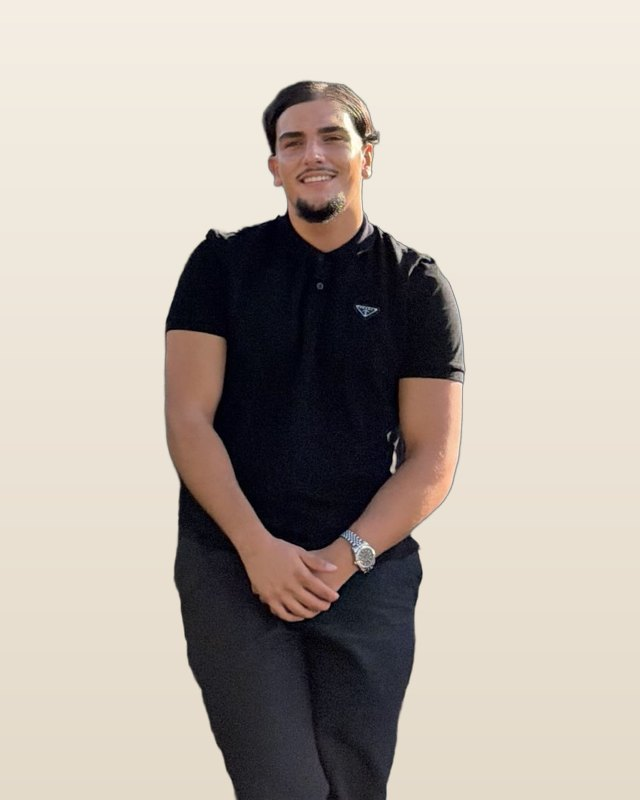
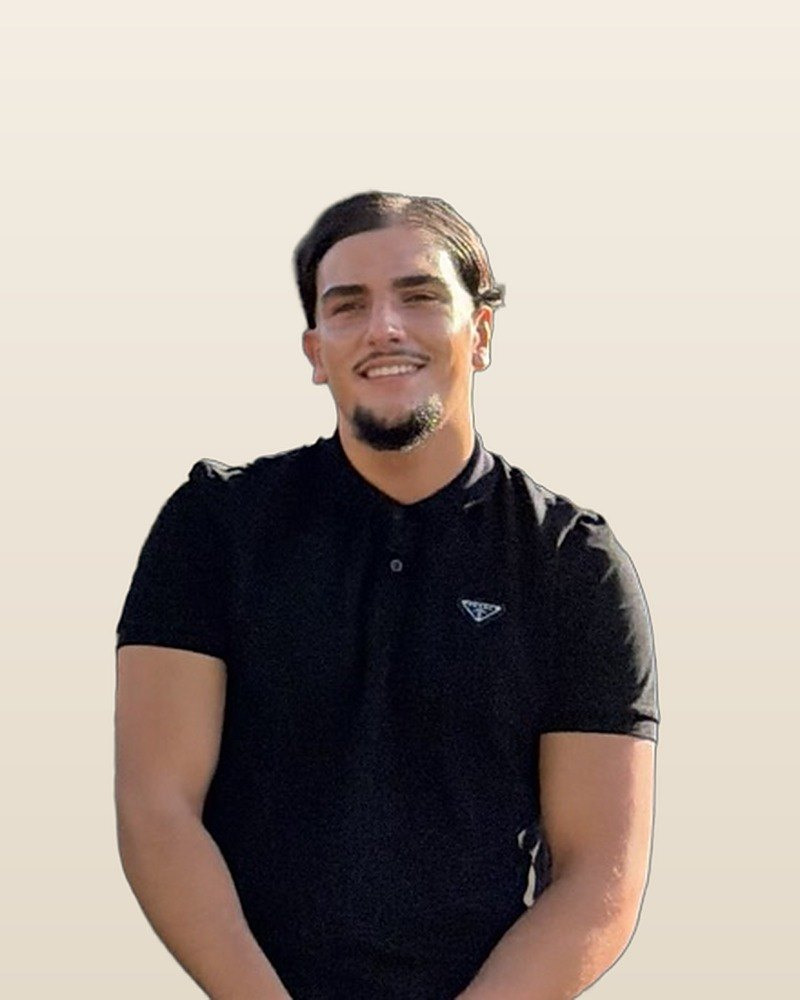
Hero: rustige laptopfoto zonder lamp en planten; foto Halil: bovenlichaam
Claude-Session: https://claude.ai/code/session_0177UNrEm8ACqpwUMmjfxudR

diff --git a/index.html b/index.html
@@ -25,7 +25,7 @@
   <link rel="preload" as="image" href="assets/foto/hero-laptop.webp" imagesrcset="assets/foto/hero-laptop-800.webp 800w, assets/foto/hero-laptop.webp 2400w" imagesizes="(max-width: 960px) 100vw, (max-width: 1600px) 92vw, 1500px" type="image/webp" fetchpriority="high">
   <link rel="stylesheet" href="assets/css/fonts.css?v=5835cd519a">
   <link rel="stylesheet" href="assets/css/base.css?v=60df99dd08">
-  <link rel="stylesheet" href="assets/css/home.css?v=fb0f13ea7a">
+  <link rel="stylesheet" href="assets/css/home.css?v=caab115457">
   <script>document.documentElement.classList.add("js");setTimeout(function(){document.documentElement.classList.add("ready")},2500)</script>
   <script type="application/ld+json">{"@context": "https://schema.org", "@graph": [{"@type": "ProfessionalService", "@id": "https://vizoradigital.nl/#bedrijf", "name": "Vizora Digital", "url": "https://vizoradigital.nl/", "logo": "https://vizoradigital.nl/assets/logo-512.png", "image": "https://vizoradigital.nl/assets/og.png", "description": "Websites en online groei voor ondernemers in heel Nederland. Vanuit Breda.", "telephone": "+31638705348", "email": "halilsahinai@gmail.com", "priceRange": "€200 - €500", "address": {"@type": "PostalAddress", "addressLocality": "Breda", "addressRegion": "Noord-Brabant", "addressCountry": "NL"}, "areaServed": {"@type": "Country", "name": "Nederland"}, "openingHoursSpecification": [{"@type": "OpeningHoursSpecification", "dayOfWeek": ["Monday", "Tuesday", "Wednesday", "Thursday", "Friday", "Saturday"], "opens": "09:00", "closes": "18:00"}], "founder": [{"@type": "Person", "name": "Halil"}, {"@type": "Person", "name": "Sahin"}]}, {"@type": "WebSite", "name": "Vizora Digital", "url": "https://vizoradigital.nl/"}]}</script>
 </head>
@@ -71,7 +71,7 @@
       </div>
       <div class="hero__zoom" data-zoom>
         <div class="hero__media">
-          <picture class=""><source srcset="assets/foto/hero-laptop-800.webp 800w, assets/foto/hero-laptop.webp 2400w" sizes="(max-width: 960px) 100vw, (max-width: 1600px) 92vw, 1500px" type="image/webp"><img src="assets/foto/hero-laptop.jpg" srcset="assets/foto/hero-laptop-800.jpg 800w, assets/foto/hero-laptop.jpg 2400w" sizes="(max-width: 960px) 100vw, (max-width: 1600px) 92vw, 1500px" alt="Laptop met een zwart scherm op een houten dressoir, naast een lamp en een cactus" width="2400" height="1350" fetchpriority="high" decoding="async"></picture>
+          <picture class=""><source srcset="assets/foto/hero-laptop-800.webp 800w, assets/foto/hero-laptop.webp 2400w" sizes="(max-width: 960px) 100vw, (max-width: 1600px) 92vw, 1500px" type="image/webp"><img src="assets/foto/hero-laptop.jpg" srcset="assets/foto/hero-laptop-800.jpg 800w, assets/foto/hero-laptop.jpg 2400w" sizes="(max-width: 960px) 100vw, (max-width: 1600px) 92vw, 1500px" alt="Laptop met een zwart scherm op een houten tafel" width="2400" height="1350" fetchpriority="high" decoding="async"></picture>
           <span class="hero__screen" aria-hidden="true"></span>
         </div>
       </div>
@@ -192,7 +192,7 @@
 
     <section class="about sheet stack" aria-labelledby="ab-title">
       <div class="about__in wrap">
-        <figure class="about__photo"><div class="about__img" data-clip><picture class=""><source srcset="assets/foto/halil.webp" type="image/webp"><img src="assets/foto/halil.jpg" alt="Halil, medeoprichter van Vizora Digital" width="640" height="800" loading="lazy" decoding="async" style="object-position:50% 20%"></picture></div><figcaption class="label about__cap">Halil</figcaption></figure>
+        <figure class="about__photo"><div class="about__img" data-clip><picture class=""><source srcset="assets/foto/halil.webp" type="image/webp"><img src="assets/foto/halil.jpg" alt="Halil, medeoprichter van Vizora Digital" width="800" height="1000" loading="lazy" decoding="async" style="object-position:50% 20%"></picture></div><figcaption class="label about__cap">Halil</figcaption></figure>
         <div class="about__body">
           <p class="label">Wie zijn wij</p>
           <h2 id="ab-title" class="h2 home__h2" data-reveal>Halil &amp; Sahin. Twee broers, één aanspreekpunt.</h2>
@@ -257,6 +257,6 @@
   <script src="assets/vendor/ScrollTrigger.min.js?v=b0b14d67b5" defer></script>
   <script src="assets/vendor/lenis.min.js?v=53195c9797" defer></script>
   <script src="assets/js/site.js?v=5d531756cd" defer></script>
-  <script src="assets/js/motion.js?v=63921edc37" defer></script>
+  <script src="assets/js/motion.js?v=85927c772c" defer></script>
 </body>
 </html>

diff --git a/assets/js/motion.js b/assets/js/motion.js
@@ -165,7 +165,7 @@
   if (zoom && desktop) {
     const media = zoom.querySelector('.hero__media');
     const screenEl = zoom.querySelector('.hero__screen');
-    const S = { x: 0.2839, y: 0.0963, w: 0.4119, h: 0.4691 }; // schermvlak in de foto (zie .hero__screen)
+    const S = { x: 0.1287, y: 0.1864, w: 0.5535, h: 0.6072 }; // schermvlak in de foto (zie .hero__screen)
     const geo = () => {
       const W = zoom.offsetWidth, H = zoom.offsetHeight, left = zoom.getBoundingClientRect().left;
       const sx = left + (S.x + S.w / 2) * W, sy = window.innerHeight / 2 - H / 2 + (S.y + S.h / 2) * H; // bij vastzetten staat de foto midden in beeld
@@ -175,7 +175,7 @@
       };
     };
     gsap.set(media, { transformOrigin: `${(S.x + S.w / 2) * 100}% ${(S.y + S.h / 2) * 100}%` });
-    gsap.timeline({ scrollTrigger: { trigger: zoom, start: 'center center', end: '+=120%', pin: true, scrub: 0.8, invalidateOnRefresh: true, anticipatePin: 1 } })
+    gsap.timeline({ scrollTrigger: { trigger: zoom, start: 'center center', end: '+=120%', pin: true, scrub: true, invalidateOnRefresh: true, anticipatePin: 1 } })
       // de wrapper wordt vastgezet, het beeld erin schaalt (pin en transform niet op hetzelfde element)
       .to(media, { scale: () => geo().s, x: () => geo().dx, y: () => geo().dy, ease: 'power2.in', duration: 1 }, 0)
       .to(media, { borderRadius: 0, ease: 'none', duration: 0.3 }, 0)
@@ -186,7 +186,7 @@
   /* telefoon/tablet: geen vastzetten, wel rustig inzoomen op het scherm terwijl de hero wegscrollt */
   if (zoom && !desktop) {
     const media = zoom.querySelector('.hero__media');
-    gsap.fromTo(media, { scale: 1 }, { scale: 1.45, transformOrigin: '49% 33%', ease: 'none', scrollTrigger: { trigger: media, start: 'top 55%', end: 'bottom top', scrub: true } });
+    gsap.fromTo(media, { scale: 1 }, { scale: 1.45, transformOrigin: '37.4% 49%', ease: 'none', scrollTrigger: { trigger: media, start: 'top 55%', end: 'bottom top', scrub: true } });
   }
 
   /* stapelende vlakken: het vorige deel krimpt licht en wordt donkerder als het volgende eroverheen schuift */

diff --git a/over-ons.html b/over-ons.html
@@ -68,7 +68,7 @@
       <div class="duo__grid">
         <div class="duo__side">
           <p class="label">Wie we zijn</p>
-          <figure class="duo__photo"><div class="duo__img" data-clip><picture class=""><source srcset="assets/foto/halil.webp" type="image/webp"><img src="assets/foto/halil.jpg" alt="Halil, medeoprichter van Vizora Digital" width="640" height="800" fetchpriority="high" decoding="async"></picture></div><figcaption class="label duo__cap">Halil</figcaption></figure>
+          <figure class="duo__photo"><div class="duo__img" data-clip><picture class=""><source srcset="assets/foto/halil.webp" type="image/webp"><img src="assets/foto/halil.jpg" alt="Halil, medeoprichter van Vizora Digital" width="800" height="1000" fetchpriority="high" decoding="async"></picture></div><figcaption class="label duo__cap">Halil</figcaption></figure>
         </div>
         <div class="duo__main">
           <h2 id="duo-title" class="duo__names" data-reveal>Halil <span>&amp;</span><br>Sahin</h2>
@@ -211,6 +211,6 @@
   <script src="assets/vendor/ScrollTrigger.min.js?v=b0b14d67b5" defer></script>
   <script src="assets/vendor/lenis.min.js?v=53195c9797" defer></script>
   <script src="assets/js/site.js?v=5d531756cd" defer></script>
-  <script src="assets/js/motion.js?v=63921edc37" defer></script>
+  <script src="assets/js/motion.js?v=85927c772c" defer></script>
 </body>
 </html>

diff --git a/assets/css/home.css b/assets/css/home.css
@@ -165,7 +165,7 @@
 .hero__zoom { margin-top: clamp(32px, 4vw, 56px); }
 .hero__media { will-change: transform; }
 /* het zwarte scherm van de laptop (fracties van hero-laptop.jpg); kleurt bij het inzoomen naar inkt, net als het volgende deel */
-.hero__screen { position: absolute; left: 28.39%; top: 9.63%; width: 41.19%; height: 46.91%; background: var(--ink); opacity: 0; border-radius: 2px; pointer-events: none; }
+.hero__screen { position: absolute; left: 12.87%; top: 18.64%; width: 55.35%; height: 60.72%; background: var(--ink); opacity: 0; border-radius: 2px; pointer-events: none; }
 
 /* vorige vlak wordt iets kleiner en donkerder als het volgende eroverheen schuift (motion.js zet --dim) */
 .stack { position: relative; transform-origin: 50% 100%; }

diff --git a/404.html b/404.html
@@ -138,6 +138,6 @@
   <script src="/assets/vendor/ScrollTrigger.min.js?v=b0b14d67b5" defer></script>
   <script src="/assets/vendor/lenis.min.js?v=53195c9797" defer></script>
   <script src="/assets/js/site.js?v=5d531756cd" defer></script>
-  <script src="/assets/js/motion.js?v=63921edc37" defer></script>
+  <script src="/assets/js/motion.js?v=85927c772c" defer></script>
 </body>
 </html>

diff --git a/contact.html b/contact.html
@@ -220,6 +220,6 @@
   <script src="assets/vendor/ScrollTrigger.min.js?v=b0b14d67b5" defer></script>
   <script src="assets/vendor/lenis.min.js?v=53195c9797" defer></script>
   <script src="assets/js/site.js?v=5d531756cd" defer></script>
-  <script src="assets/js/motion.js?v=63921edc37" defer></script>
+  <script src="assets/js/motion.js?v=85927c772c" defer></script>
 </body>
 </html>

diff --git a/diensten.html b/diensten.html
@@ -310,6 +310,6 @@
   <script src="assets/vendor/ScrollTrigger.min.js?v=b0b14d67b5" defer></script>
   <script src="assets/vendor/lenis.min.js?v=53195c9797" defer></script>
   <script src="assets/js/site.js?v=5d531756cd" defer></script>
-  <script src="assets/js/motion.js?v=63921edc37" defer></script>
+  <script src="assets/js/motion.js?v=85927c772c" defer></script>
 </body>
 </html>

diff --git a/prijzen.html b/prijzen.html
@@ -309,6 +309,6 @@
   <script src="assets/vendor/ScrollTrigger.min.js?v=b0b14d67b5" defer></script>
   <script src="assets/vendor/lenis.min.js?v=53195c9797" defer></script>
   <script src="assets/js/site.js?v=5d531756cd" defer></script>
-  <script src="assets/js/motion.js?v=63921edc37" defer></script>
+  <script src="assets/js/motion.js?v=85927c772c" defer></script>
 </body>
 </html>

diff --git a/werkwijze.html b/werkwijze.html
@@ -257,6 +257,6 @@
   <script src="assets/vendor/ScrollTrigger.min.js?v=b0b14d67b5" defer></script>
   <script src="assets/vendor/lenis.min.js?v=53195c9797" defer></script>
   <script src="assets/js/site.js?v=5d531756cd" defer></script>
-  <script src="assets/js/motion.js?v=63921edc37" defer></script>
+  <script src="assets/js/motion.js?v=85927c772c" defer></script>
 </body>
 </html>

diff --git a/src/pages/home.py b/src/pages/home.py
@@ -83,7 +83,7 @@ def render():
       </div>
       <div class="hero__zoom" data-zoom>
         <div class="hero__media">
-          {pic("hero-laptop", "Laptop met een zwart scherm op een houten dressoir, naast een lamp en een cactus", 2400, 1350, eager=True, sizes=SIZES["hero"])}
+          {pic("hero-laptop", "Laptop met een zwart scherm op een houten tafel", 2400, 1350, eager=True, sizes=SIZES["hero"])}
           <span class="hero__screen" aria-hidden="true"></span>
         </div>
       </div>
@@ -142,7 +142,7 @@ def render():
 
     <section class="about sheet stack" aria-labelledby="ab-title">
       <div class="about__in wrap">
-        <figure class="about__photo"><div class="about__img" data-clip>{pic("halil", "Halil, medeoprichter van Vizora Digital", 640, 800, pos="50% 20%")}</div><figcaption class="label about__cap">Halil</figcaption></figure>
+        <figure class="about__photo"><div class="about__img" data-clip>{pic("halil", "Halil, medeoprichter van Vizora Digital", 800, 1000, pos="50% 20%")}</div><figcaption class="label about__cap">Halil</figcaption></figure>
         <div class="about__body">
           {label("", "Wie zijn wij")}
           <h2 id="ab-title" class="h2 home__h2" data-reveal>Halil &amp; Sahin. Twee broers, één aanspreekpunt.</h2>

diff --git a/src/pages/over_ons.py b/src/pages/over_ons.py
@@ -6,7 +6,7 @@ FILE = "over-ons.html"
 # bijvoorbeeld "halil-sahin" (met halil-sahin.webp + halil-sahin.jpg, staand, liefst 4:5, bv. 1200x1500).
 # De opmaak staat al klaar (.duo__photo in assets/css/over-ons.css).
 PHOTO = "halil"
-PHOTO_SIZE = (640, 800)
+PHOTO_SIZE = (800, 1000)
 
 PROMISES = [
     ("Persoonlijk", "Je spreekt altijd Halil of Sahin, geen accountmanager of ticketnummer. We kennen je zaak en denken mee alsof het onze eigen zaak is."),
